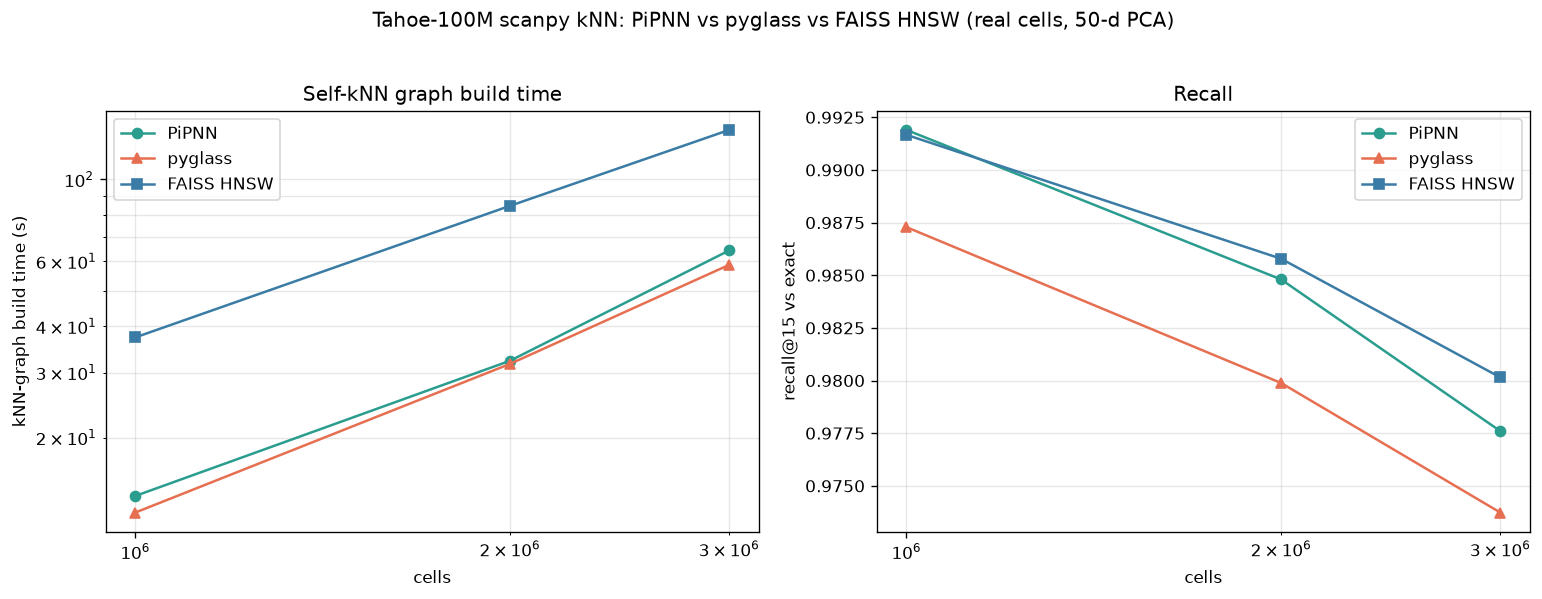
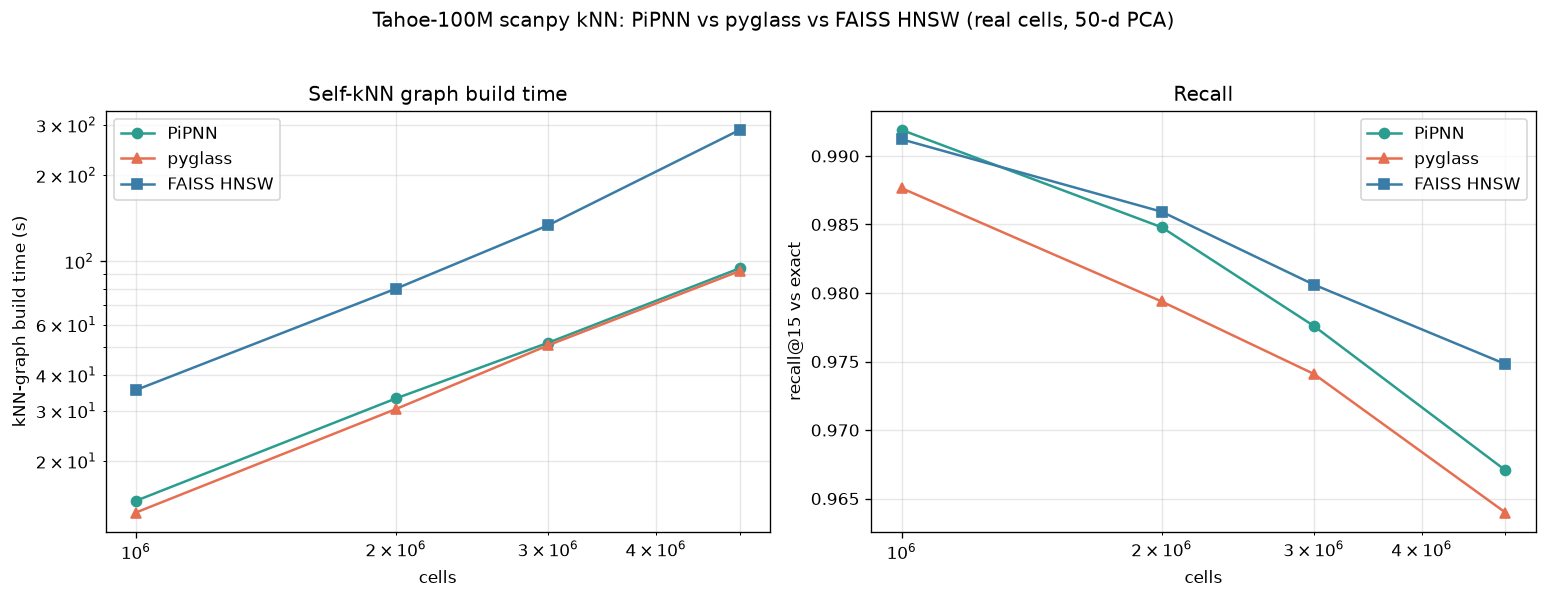
Extend Tahoe-100M scanpy kNN benchmark to 5M cells
Adds the 5M point (clean continuous run from a cooled machine) and a --cooldown
option to bench_tahoe.py for thermal headroom on laptops at large n.

5M result (real cells, 50-d): PiPNN 94s / pyglass 92s / FAISS HNSW 288s at
recall ~0.96–0.98. The PiPNN/pyglass build advantage over FAISS HNSW GROWS with
scale — 2.5x at 1M to 3.1x at 5M. Recall: PiPNN & FAISS lead, pyglass slightly
behind. Memory at 5M (child peak): pyglass 7.4GB, FAISS 5.3GB, PiPNN 21.1GB
(reservoirs scale up — feasible on 48GB).

diff --git a/bench/bench_tahoe.py b/bench/bench_tahoe.py
@@ -137,6 +137,8 @@ def main():
     ap = argparse.ArgumentParser()
     ap.add_argument("--sizes", type=int, nargs="+", default=[1_000_000, 2_000_000, 3_000_000])
     ap.add_argument("--source", type=int, default=3_000_000, help="which X_pca_<N>.npy to slice")
+    ap.add_argument("--cooldown", type=int, default=0,
+                    help="seconds to idle before each backend (thermal headroom on laptops)")
     args = ap.parse_args()
 
     src = os.path.join(CACHE, f"X_pca_{args.source}.npy")
@@ -154,6 +156,8 @@ def main():
         row = {"n": n}
         print(f"=== n={n:,} (d={X.shape[1]}) ===", flush=True)
         for name, fn in BACKENDS:
+            if args.cooldown:
+                time.sleep(args.cooldown)  # shed heat so build times aren't throttled
             t, rec, peak = run_isolated(fn, X, sub, ex)
             if t is None:
                 continue

diff --git a/README.md b/README.md
@@ -394,7 +394,7 @@ it too. (At this 200k/2-core-runner scale the build gap is ~1.7×; at SIFT-1M on
 cores it was ~8× — the build advantage grows with `n`.) Net unchanged: PiPNN owns
 build-often/read-once; pyglass and FAISS own serve-many-queries, with pyglass fastest.
 
-### Real-data scale-out: Tahoe-100M (1M–3M cells)
+### Real-data scale-out: Tahoe-100M (1M–5M cells)
 
 The synthetic sweeps above use Gaussian clusters; this one uses **real cells** from
 [Tahoe-100M](https://huggingface.co/datasets/tahoebio/Tahoe-100M) (a 100M-cell
@@ -405,20 +405,23 @@ then times the **self-kNN graph build** (build + self-query, k=15 — exactly wh
 
 ![Tahoe-100M scanpy kNN: PiPNN vs pyglass vs FAISS HNSW](bench/tahoe_bench.png)
 
-| cells | PiPNN | pyglass | FAISS HNSW |
-|---|---|---|---|
-| 1M | 13.9s / 0.992 | **12.5s** / 0.987 | 37.3s / 0.992 |
-| 2M | 32.3s / 0.985 | **31.7s** / 0.980 | 84.8s / 0.986 |
-| 3M | 64.2s / 0.978 | **58.7s** / 0.974 | 136.1s / 0.980 |
+| cells | PiPNN | pyglass | FAISS HNSW | speedup vs FAISS |
+|---|---|---|---|---|
+| 1M | 14.5s / 0.992 | **13.2s** / 0.988 | 35.4s / 0.991 | 2.5× |
+| 2M | 33.1s / 0.985 | **30.4s** / 0.979 | 80.1s / 0.986 | 2.6× |
+| 3M | 51.8s / 0.978 | **50.8s** / 0.974 | 133.4s / 0.981 | 2.6× |
+| 5M | 94.4s / 0.967 | **92.4s** / 0.964 | 287.8s / 0.975 | 3.1× |
 
 *(cells show `graph build time / recall@15`; 50-d PCA, 18-core M-series.)*
 
-- For the **scanpy self-kNN workload, PiPNN and pyglass build ~2.3× faster than
-  FAISS HNSW** at every scale (3M: ~60s vs 136s), at near-equal recall — the
-  build-time story from the synthetic sweeps holds on real cells.
-- **PiPNN and FAISS lead on recall** (~0.98–0.99); pyglass trails slightly (~0.97–0.99).
-- **Memory** (child peak at 3M): pyglass **2.6 GB**, FAISS 3.1 GB, PiPNN 11.7 GB —
-  PiPNN's per-point HashPrune reservoirs are the price of its build speed.
+- For the **scanpy self-kNN workload, PiPNN and pyglass build ~2.5–3× faster than
+  FAISS HNSW**, and the gap **grows with scale** (2.5× at 1M → 3.1× at 5M; 5M is
+  ~93s vs FAISS's ~288s) at near-equal recall — the build-time story from the
+  synthetic sweeps holds, and widens, on real cells.
+- **PiPNN and FAISS lead on recall** (~0.97–0.99); pyglass trails slightly.
+- **Memory** (child peak at 5M): pyglass **7.4 GB**, FAISS 5.3 GB, PiPNN 21.1 GB —
+  PiPNN's per-point HashPrune reservoirs are the price of its build speed (the one
+  axis where it's costly at scale).
 
 Each backend runs in its own subprocess: PiPNN (rayon) and pyglass/FAISS (OpenMP)
 otherwise deadlock when sharing one process (multiple threading runtimes on macOS).